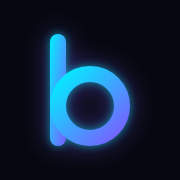
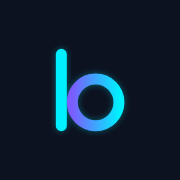
feat: b del lienzo de marca con brillo suave, íconos nuevos y foto con glow (#46)
* feat: b del lienzo de marca con brillo suave, íconos nuevos y foto con glow

* fix: el aro de la b toca la barra, como en el lienzo

* fix: ícono de iOS con la b de la portada, mismas proporciones

Changed region(s): [[0.2222, 0.1667, 0.75, 0.8611]]

diff --git a/BITACORA.md b/BITACORA.md
@@ -33,6 +33,12 @@ Pendientes, en orden:
 
 ## Entradas
 
+### 2026-10-16 (23)
+
+- La "b" ahora es la del lienzo de marca, a pedido del dueño: el aro toca la barra (antes se superponían), barra cian sólida y aro con degradé violeta→cian. Brillo más suave: solo cian, en reposo 0,5rem al 35 % y en el pico 1rem al 55 % (antes había además un halo violeta grande). Sigue pulsando (RF-02).
+- Íconos chicos como la lámina de aplicaciones: favicon = "b" oscura sobre disco cian (se lee en pestañas claras y oscuras, cierra el problema de contraste de la entrada 15); ícono de iOS = la misma "b" de la portada (proporciones incluidas) sobre tile superficie `#0D1220`: `pnpm icons` toma el SVG directo de `BinalisSymbol.astro`, así no hay geometría copiada a mano. El favicon conserva trazos más gruesos para leerse a 16 px.
+- Foto de "Quién soy" con borde cian sólido y glow, como el perfil de Instagram del lienzo.
+
 ### 2026-10-15 (22)
 
 - La "b" de la portada ahora "respira": el glow crece y baja cada 2,4 s, copiado del pulso de promoyeron.com.py (que lo aplica a su botón principal). Solo cambia la sombra, nunca posición ni opacidad, y no corre con `prefers-reduced-motion`.
@@ -133,10 +139,3 @@ Pendientes, en orden:
 - `astro preview` no aplica `public/_headers`: la CSP no se prueba en e2e.
 - Verificado rompiendo la página a propósito (sin `lang`, skip-link a `#nada`, `main` de 200vw): fallan las 6 pruebas.
 - Lección: en celular la prueba de scroll pasaba con la página rota, porque el navegador aleja el zoom y `window.innerWidth` crece con el contenido. Se compara contra `clientWidth`.
-
-### 2026-10-14 (8)
-
-- RF-01 (barra superior) y RF-02 (portada): layout, wordmark, navegación sin JS (en celular: wordmark + botón arriba, links abajo; el botón queda fuera de la nav porque es una acción), enlace "Saltar al contenido".
-- Símbolo "b" armado en SVG a partir de la descripción de marca (barra = 1, aro = 0, degradé cian→violeta, glow con `drop-shadow`). Es una aproximación: reemplazar por el SVG del lienzo de marca cuando esté.
-- Fuentes Space Grotesk y Manrope autoalojadas (woff2 variables, subset latin, ~23 KB c/u, licencia OFL junto a los archivos). No se usa `<Font />` de Astro porque inyecta CSS inline y la CSP lo bloquea.
-- Titular, subtítulo y meta description quedan como placeholders.

diff --git a/BITACORA.HISTORIAL.md b/BITACORA.HISTORIAL.md
@@ -10,6 +10,11 @@ Archivo de entradas antiguas de `BITACORA.md`, resumidas. Más reciente arriba.
 
 ## Historial
 
+### 2026-10-14 — Barra superior y portada
+
+- RF-01 y RF-02: barra con navegación sin JS y "Saltar al contenido"; símbolo "b" en SVG con glow, aproximado desde la descripción de marca (reemplazado el 2026-10-16 por el del lienzo).
+- Fuentes Space Grotesk y Manrope autoalojadas (woff2 variables, subset latin, licencia OFL al lado); sin `<Font />` de Astro porque inyecta CSS inline que la CSP bloquea.
+
 ### 2026-10-14 — Cabeceras y redirecciones
 
 - Cabeceras de seguridad en producción (PR #13), release 0.3.0. `www` → raíz con 301, HTTP → HTTPS, TLS 1.1 rechazado (verificado con curl).
